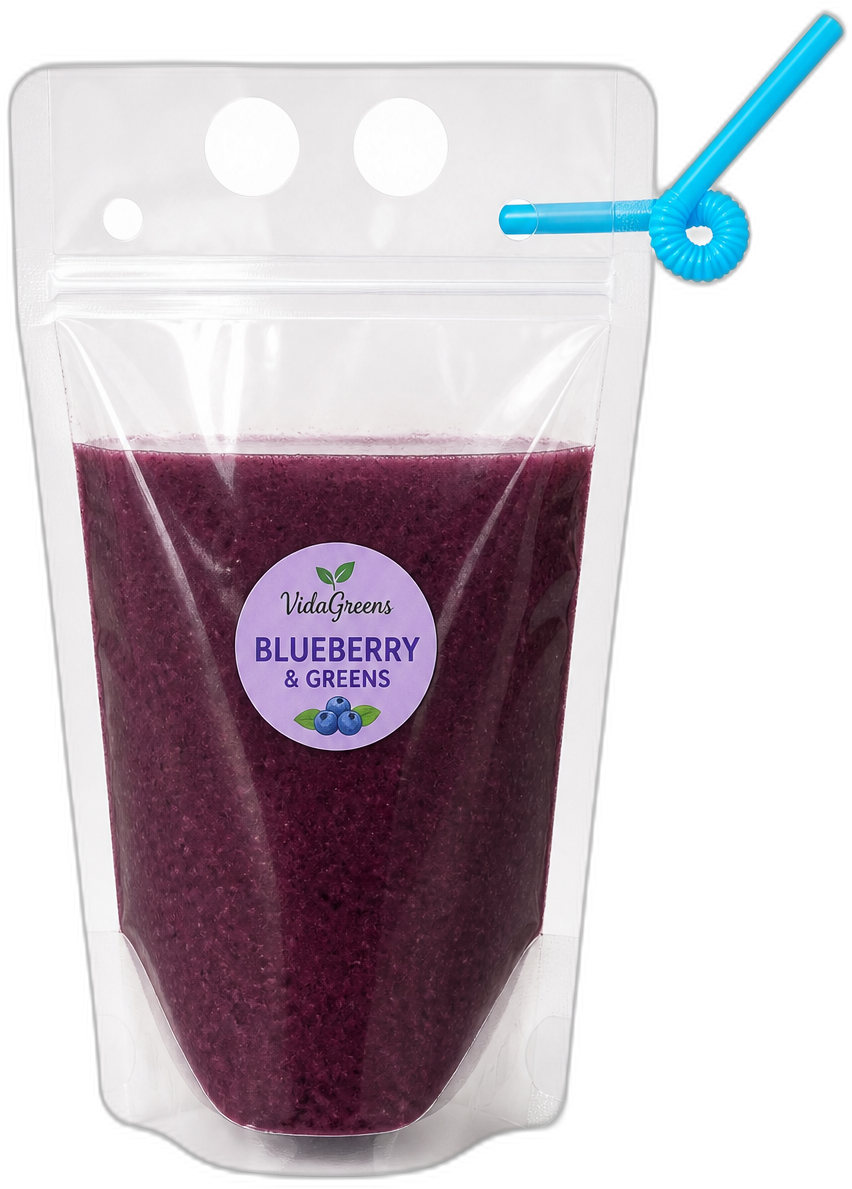
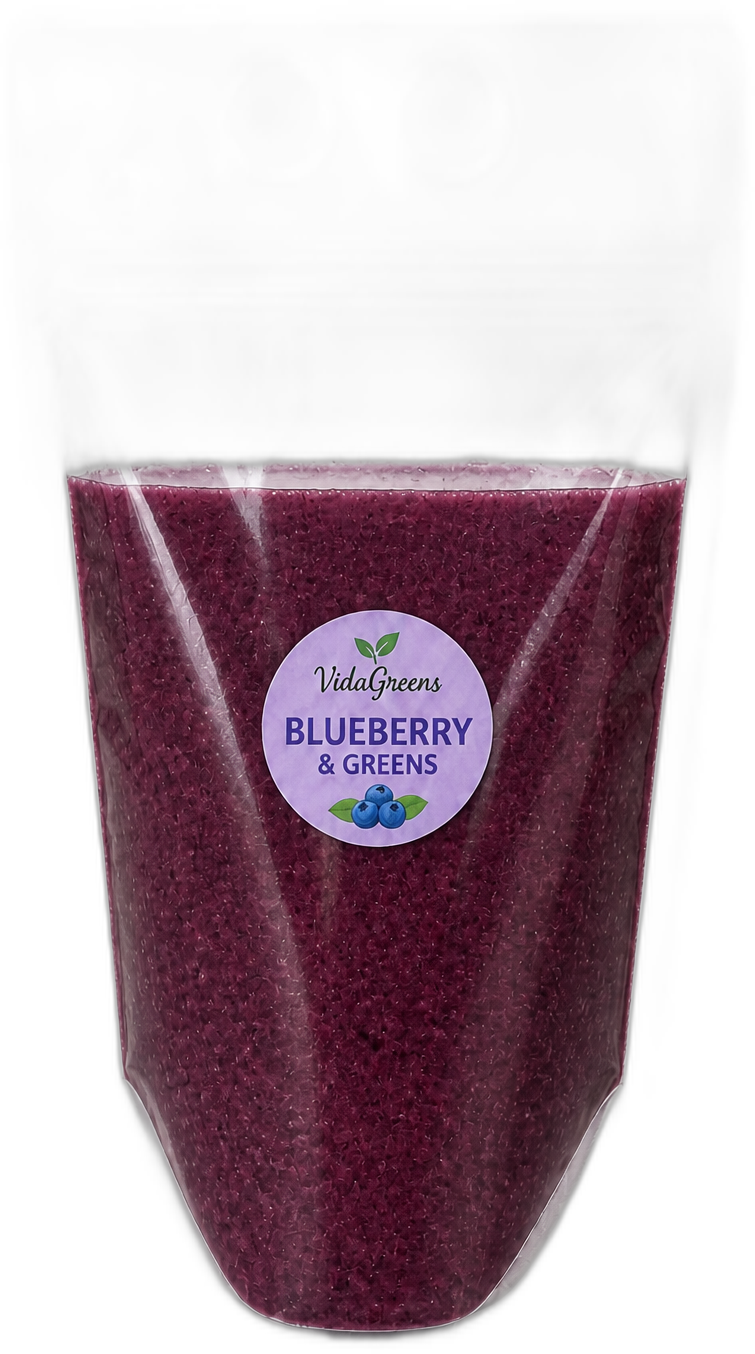
Remove straws from zipper pouch product images
Regenerate clear stand-up zipper pouches without straws for all four
flavors and refresh related copy.

diff --git a/index.html b/index.html
@@ -74,7 +74,7 @@
           <img
             class="hero__pouch"
             src="images/pouch-watermelon.png"
-            alt="VidaGreens Watermelon Strawberry Chia clear zipper drink pouch with straw"
+            alt="VidaGreens Watermelon Strawberry Chia clear zipper drink pouch"
             width="656"
             height="1479"
             fetchpriority="high"
@@ -85,8 +85,7 @@
           <p class="hero__brand">VidaGreens</p>
           <h1 class="hero__headline">Fresh blends in a clear zipper pouch—made for real days.</h1>
           <p class="hero__support">
-            Cold-pressed smoothies sealed in reusable clear drink pouches with zipper tops and
-            straw holes. Pickup on Pacific, or ship cold to your door.
+            Cold-pressed smoothies sealed in reusable clear drink pouches with zipper tops. Pickup on Pacific, or ship cold to your door.
           </p>
           <div class="hero__actions">
             <a class="btn btn--primary" href="#menu">Explore the menu</a>
@@ -133,7 +132,7 @@
           </li>
           <li>
             <strong>Zipper &amp; go</strong>
-            <p>Clear stand-up pouches with resealable zippers, finger holes, and straw slots.</p>
+            <p>Clear stand-up pouches with resealable zippers, finger holes, and a resealable zip.</p>
           </li>
           <li>
             <strong>Kept cold, always</strong>
@@ -147,8 +146,7 @@
           <p class="eyebrow">The menu</p>
           <h2 class="section__title">Four blends. Built like a smoothie bar.</h2>
           <p class="section__lede">
-            Hydrate, greens, or cacao comfort—each clear zipper pouch is a full 16 oz ritual with a
-            straw, ready for anywhere.
+            Hydrate, greens, or cacao comfort—each clear zipper pouch is a full 16 oz ritual, ready for anywhere.
           </p>
         </div>
 
@@ -300,7 +298,7 @@
               <span>03</span>
               <div>
                 <h3>Zip &amp; chill</h3>
-                <p>Filled into clear zipper drink pouches, straw-ready, and chilled for pickup or ship.</p>
+                <p>Filled into clear zipper drink pouches, chilled for pickup or ship.</p>
               </div>
             </li>
           </ol>
